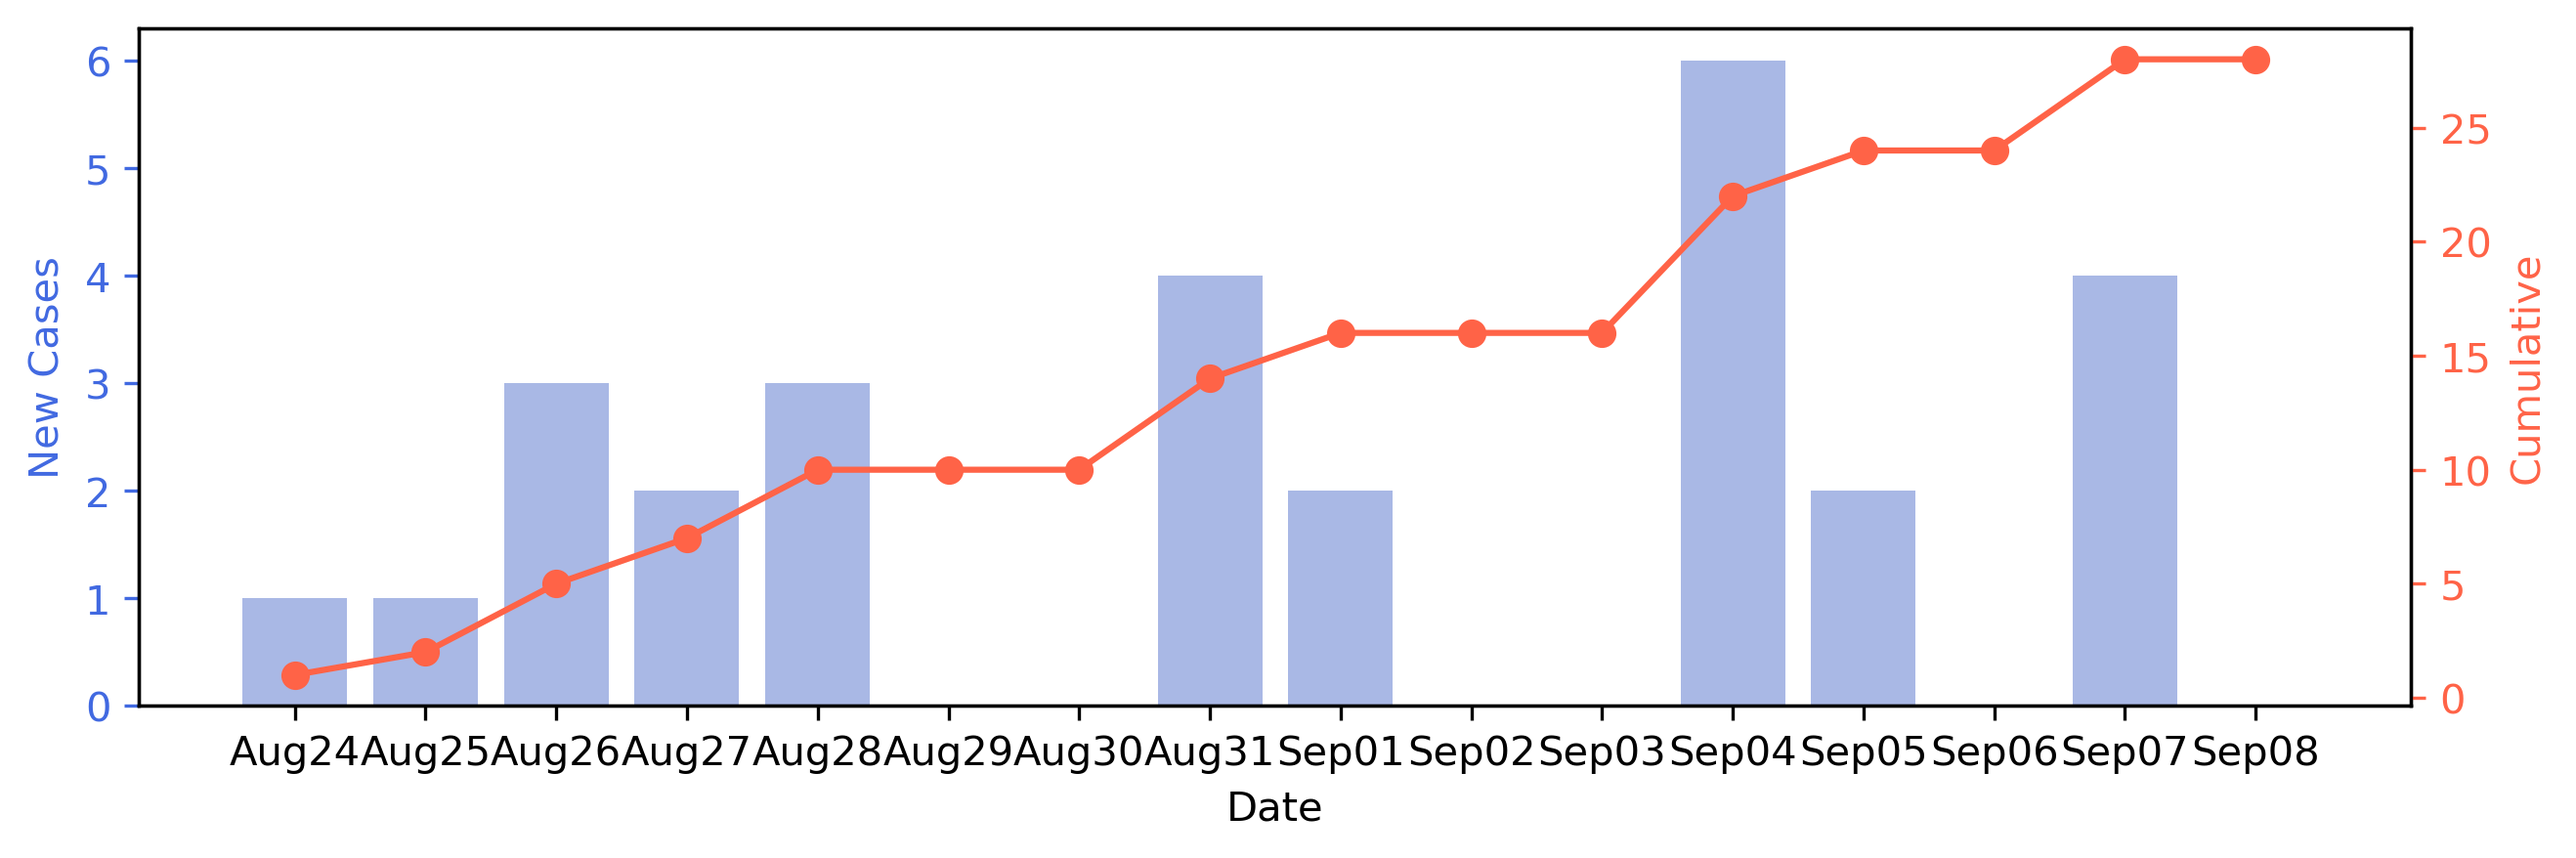
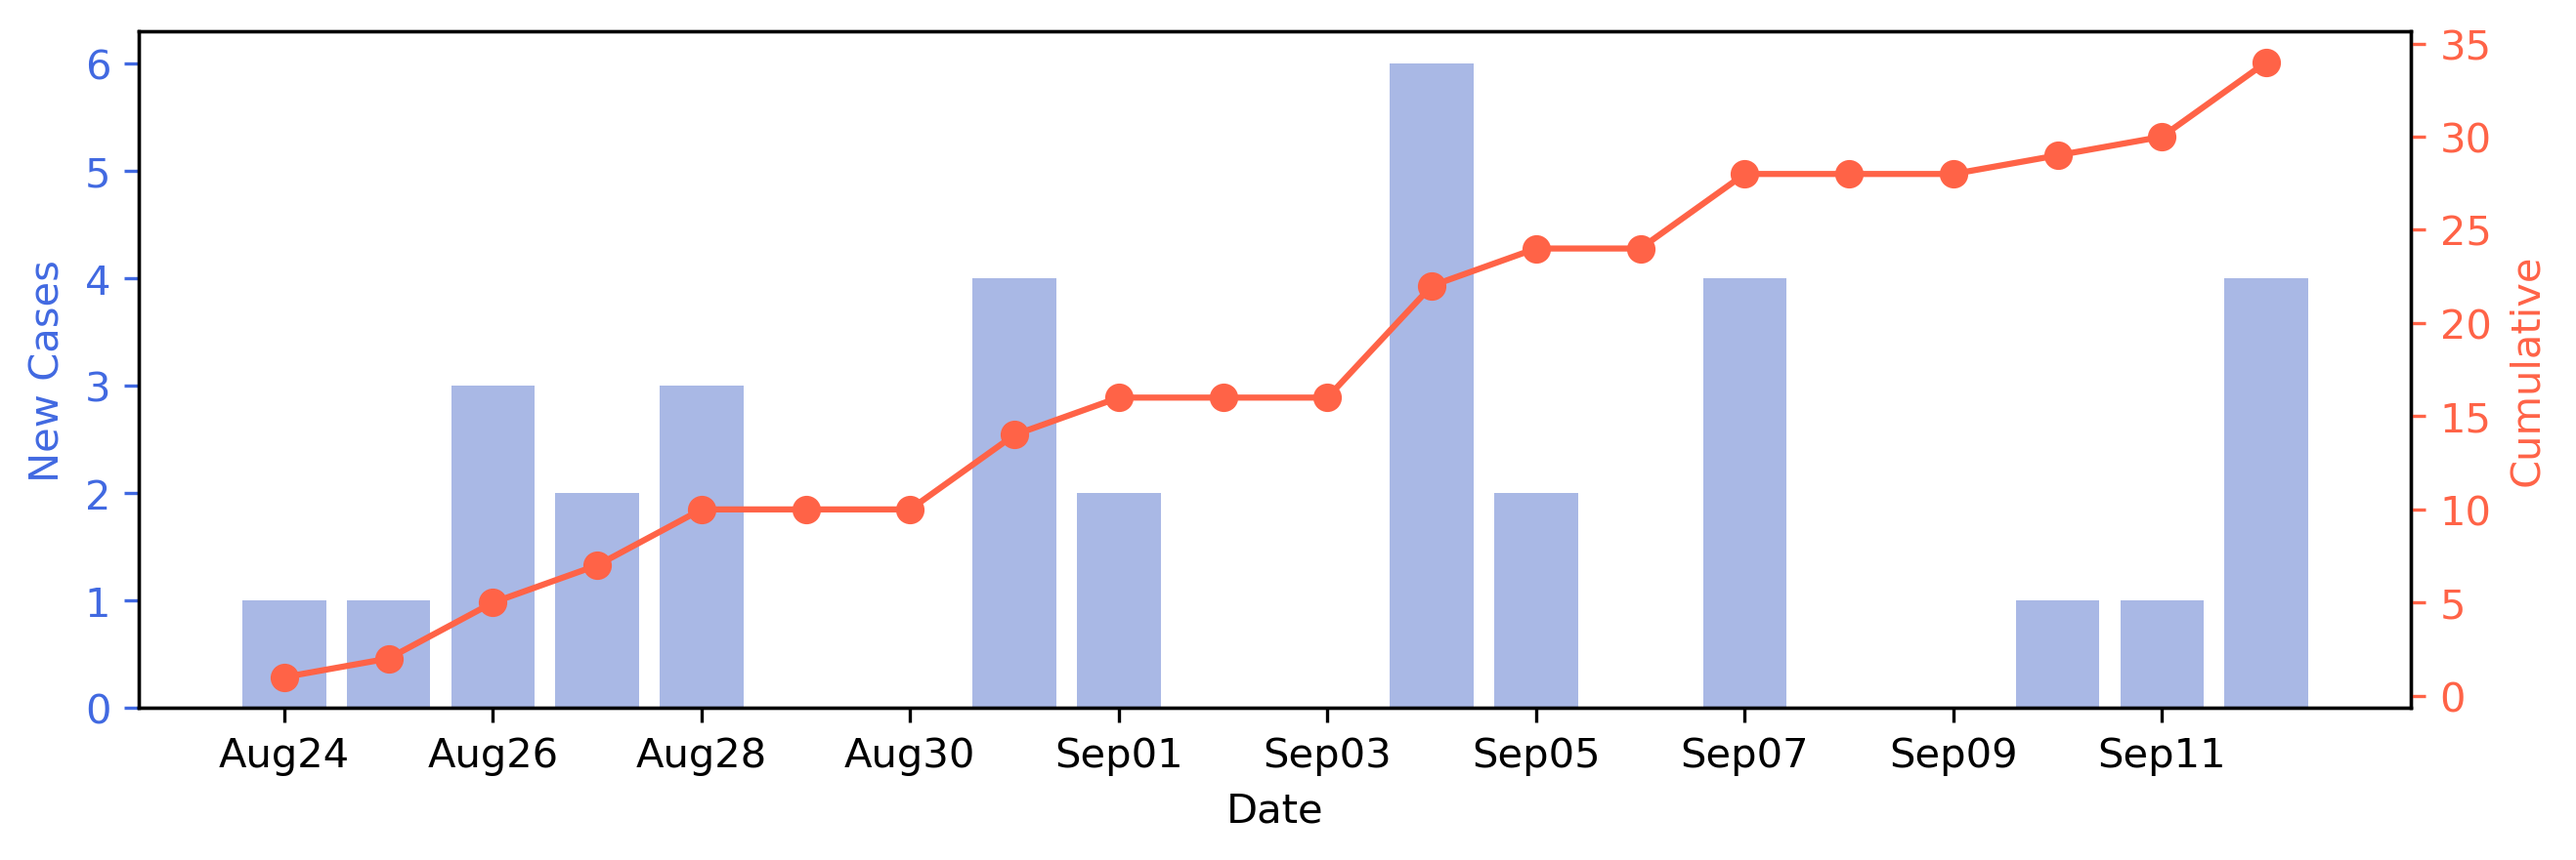
add new cases, show 10 dates at a time

diff --git a/index.html b/index.html
@@ -21,8 +21,10 @@
     <div class="row">
       <div class="col-md-6 offset-md-3">
         <h2>Source</h2>
-        <blockquote class="twitter-tweet"><p lang="en" dir="ltr">No new cases of COVID-19 confirmed to the Rensselaer County Health Department, it was announced on Tuesday.<br>Tuesday is the latest day the county reported no new cases. The county reported no new cases on Sunday, and also on September 2 and August 23: <a href="https://t.co/fqusrtwPGl">https://t.co/fqusrtwPGl</a></p>&mdash; RensselaerCo.Exec (@RenscoExecutive) <a href="https://twitter.com/RenscoExecutive/status/1303449434257317890?ref_src=twsrc%5Etfw">September 8, 2020</a></blockquote> <script async src="https://platform.twitter.com/widgets.js" charset="utf-8"></script> 
-        <blockquote class="twitter-tweet"><p lang="en" dir="ltr">Six new cases of COVID-19 have been confirmed to the Rensselaer County Health Department, it was announced on Friday.<br>The new cases bring the total number of confirmed cases in the county to 893 cases. There are now 32 active cases in the county: <a href="https://t.co/fqusrtwPGl">https://t.co/fqusrtwPGl</a></p>&mdash; RensselaerCo.Exec (@RenscoExecutive) <a href="https://twitter.com/RenscoExecutive/status/1301978720366989312?ref_src=twsrc%5Etfw">September 4, 2020</a></blockquote> <script async src="https://platform.twitter.com/widgets.js" charset="utf-8"></script> 
+        <blockquote class="twitter-tweet"><p lang="en" dir="ltr">Four new cases of COVID-19 confirmed to Rensselaer County Health Department, it was announced Saturday.<br>County continued to see low hospitalizations &amp; active cases. County has seen active cases remain low also thanks to 4 days in September w/ no new cases: <a href="https://t.co/fqusrtwPGl">https://t.co/fqusrtwPGl</a></p>&mdash; RensselaerCo.Exec (@RenscoExecutive) <a href="https://twitter.com/RenscoExecutive/status/1304846996210102274?ref_src=twsrc%5Etfw">September 12, 2020</a></blockquote> <script async src="https://platform.twitter.com/widgets.js" charset="utf-8"></script> 
+        <blockquote class="twitter-tweet"><p lang="en" dir="ltr">A single new case of COVID-19 (coronavirus) has been confirmed to the Rensselaer County Health Department, it was announced on Friday.<br>There are now 901 confirmed cases in the county, with 20 active cases: <a href="https://t.co/fqusrtwPGl">https://t.co/fqusrtwPGl</a></p>&mdash; RensselaerCo.Exec (@RenscoExecutive) <a href="https://twitter.com/RenscoExecutive/status/1304531662437576711?ref_src=twsrc%5Etfw">September 11, 2020</a></blockquote> <script async src="https://platform.twitter.com/widgets.js" charset="utf-8"></script>
+        <blockquote class="twitter-tweet"><p lang="en" dir="ltr">No new cases of COVID-19 confirmed to the Rensselaer County Health Department, it was announced on Tuesday.<br>Tuesday is the latest day the county reported no new cases. The county reported no new cases on Sunday, and also on September 2 and August 23: <a href="https://t.co/fqusrtwPGl">https://t.co/fqusrtwPGl</a></p>&mdash; RensselaerCo.Exec (@RenscoExecutive) <a href="https://twitter.com/RenscoExecutive/status/1303449434257317890?ref_src=twsrc%5Etfw">September 8, 2020</a></blockquote> <script async src="https://platform.twitter.com/widgets.js" charset="utf-8"></script>
+        <blockquote class="twitter-tweet"><p lang="en" dir="ltr">Six new cases of COVID-19 have been confirmed to the Rensselaer County Health Department, it was announced on Friday.<br>The new cases bring the total number of confirmed cases in the county to 893 cases. There are now 32 active cases in the county: <a href="https://t.co/fqusrtwPGl">https://t.co/fqusrtwPGl</a></p>&mdash; RensselaerCo.Exec (@RenscoExecutive) <a href="https://twitter.com/RenscoExecutive/status/1301978720366989312?ref_src=twsrc%5Etfw">September 4, 2020</a></blockquote> <script async src="https://platform.twitter.com/widgets.js" charset="utf-8"></script>
         <blockquote class="twitter-tweet"><p lang="en" dir="ltr">No new cases of COVID-19 have been confirmed to the Rensselaer County Health Department, it was reported on Wednesday.<br>Wednesday comes one week after no new cases were confirmed on August 23. Before that, county had last reported no new cases on July 13: <a href="https://t.co/fqusrtwPGl">https://t.co/fqusrtwPGl</a></p>&mdash; RensselaerCo.Exec (@RenscoExecutive) <a href="https://twitter.com/RenscoExecutive/status/1301243888703856641?ref_src=twsrc%5Etfw">September 2, 2020</a></blockquote> <script async src="https://platform.twitter.com/widgets.js" charset="utf-8"></script>
         <blockquote class="twitter-tweet"><p lang="en" dir="ltr">Two new cases of COVID-19 (coronavirus) have been confirmed to the Rensselaer County Health Department, it was announced.<br>The two new cases bring the total number of confirmed cases to 885. There are now 40 active cases in the county: <a href="https://t.co/fqusrtwPGl">https://t.co/fqusrtwPGl</a></p>&mdash; RensselaerCo.Exec (@RenscoExecutive) <a href="https://twitter.com/RenscoExecutive/status/1300868028167524352?ref_src=twsrc%5Etfw">September 1, 2020</a></blockquote> <script async src="https://platform.twitter.com/widgets.js" charset="utf-8"></script>
         <blockquote class="twitter-tweet"><p lang="en" dir="ltr">Four new cases of COVID-19 have been confirmed to the Rensselaer County Health Department on Monday.<br>Along with new cases, county also announced death of 66-year-old man from Troy Center for Rehabilitation and Nursing: <a href="https://t.co/fqusrtwPGl">https://t.co/fqusrtwPGl</a> (1/2)</p>&mdash; RensselaerCo.Exec (@RenscoExecutive) <a href="https://twitter.com/RenscoExecutive/status/1300534211988926465?ref_src=twsrc%5Etfw">August 31, 2020</a></blockquote> <script async src="https://platform.twitter.com/widgets.js" charset="utf-8"></script>

diff --git a/plots.py b/plots.py
@@ -1,3 +1,4 @@
+# Python script to plot new cases and cumulative cases
 import pandas as pd
 import numpy as np
 import matplotlib.pyplot as plt
@@ -16,4 +17,12 @@ ax.plot(df['date'], np.cumsum(df['new-cases']), 'tomato', marker='o')
 ax.set_ylabel('Cumulative', color='tomato')
 ax.tick_params(colors='tomato')
 ax.tick_params(colors='tomato')
+
+# automatically adjust tick labels
+Ndates = len(df['date'])
+showNdates = 10
+labels = np.array(df['date'])[::Ndates//showNdates]
+ax.set_xticks(labels)
+
 plt.savefig('cases.png', dpi=300, bbox_inches='tight')
+
